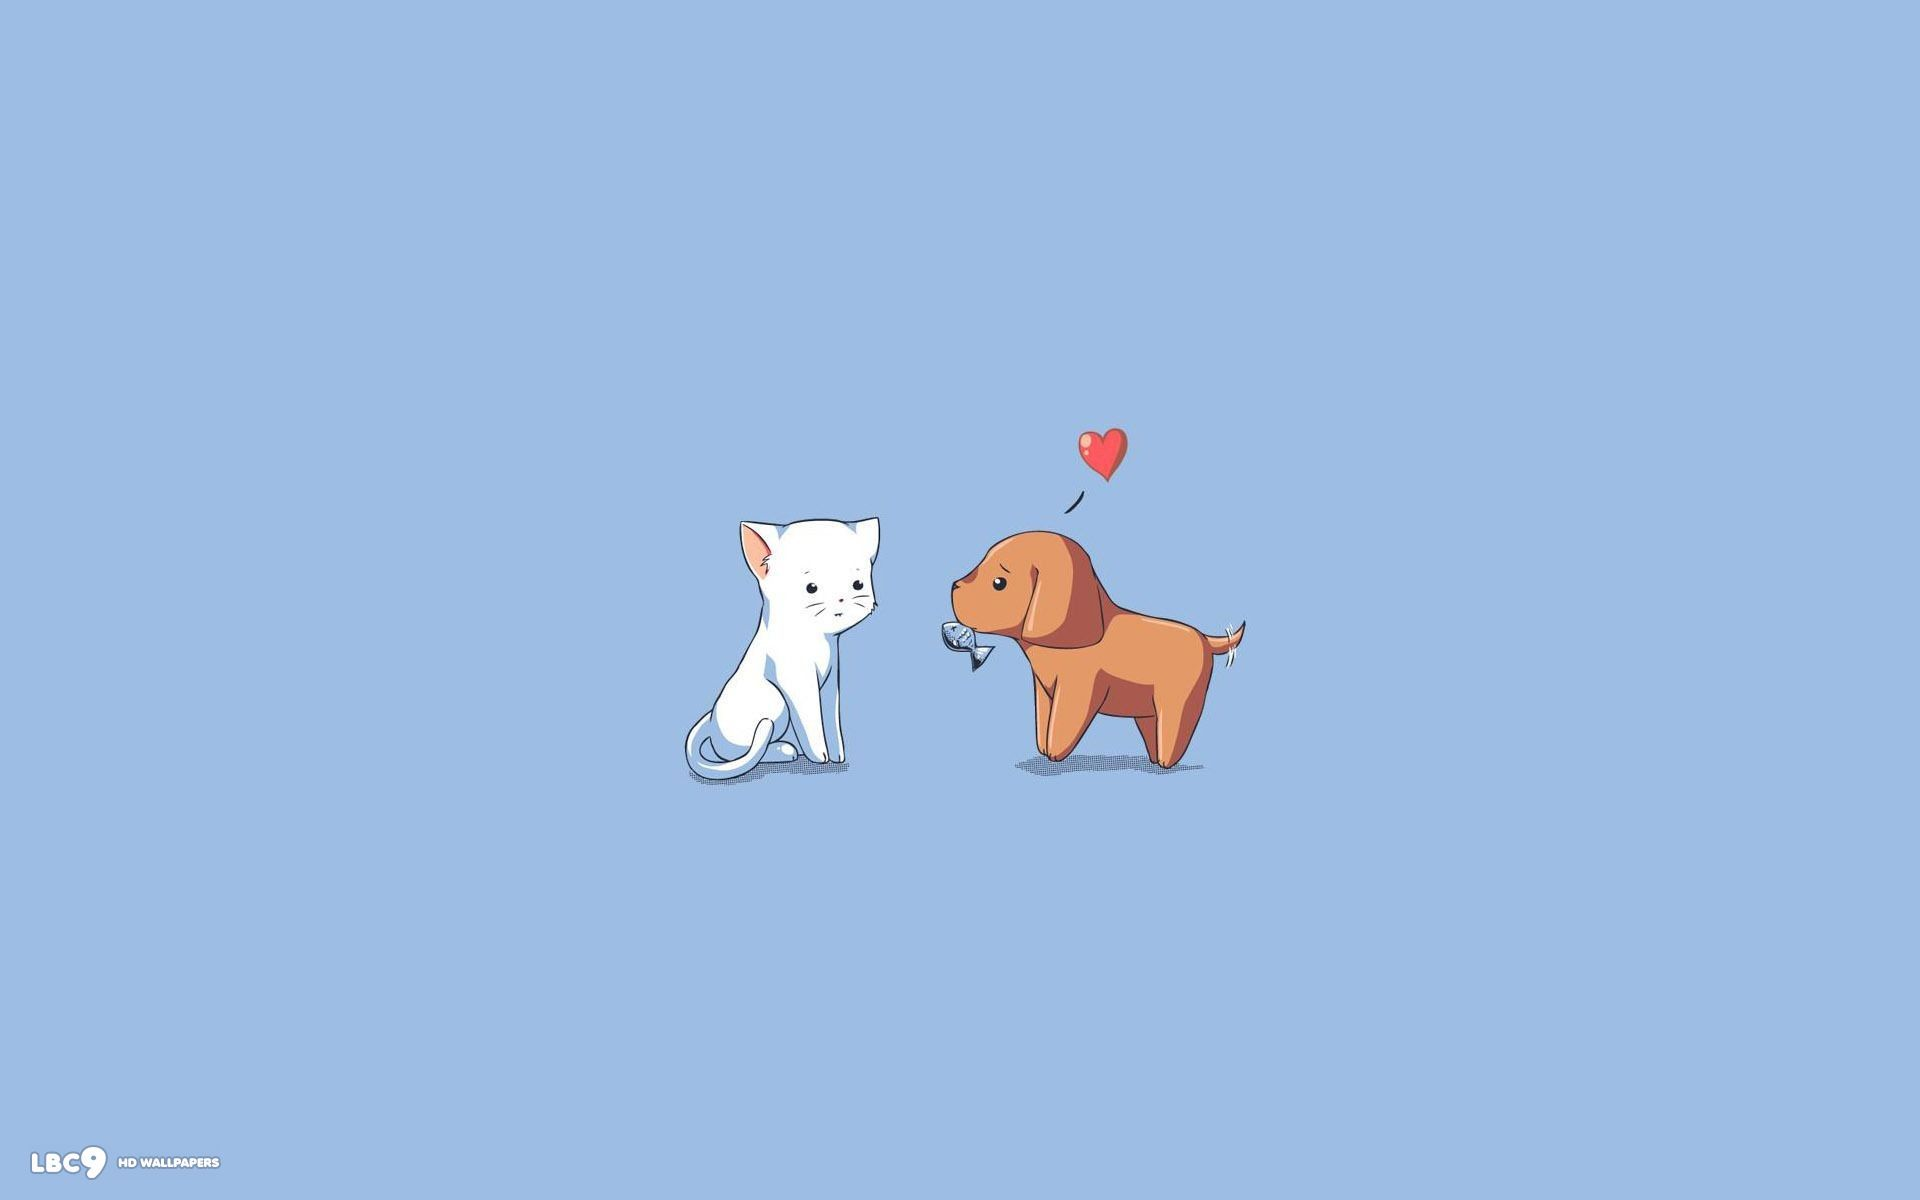
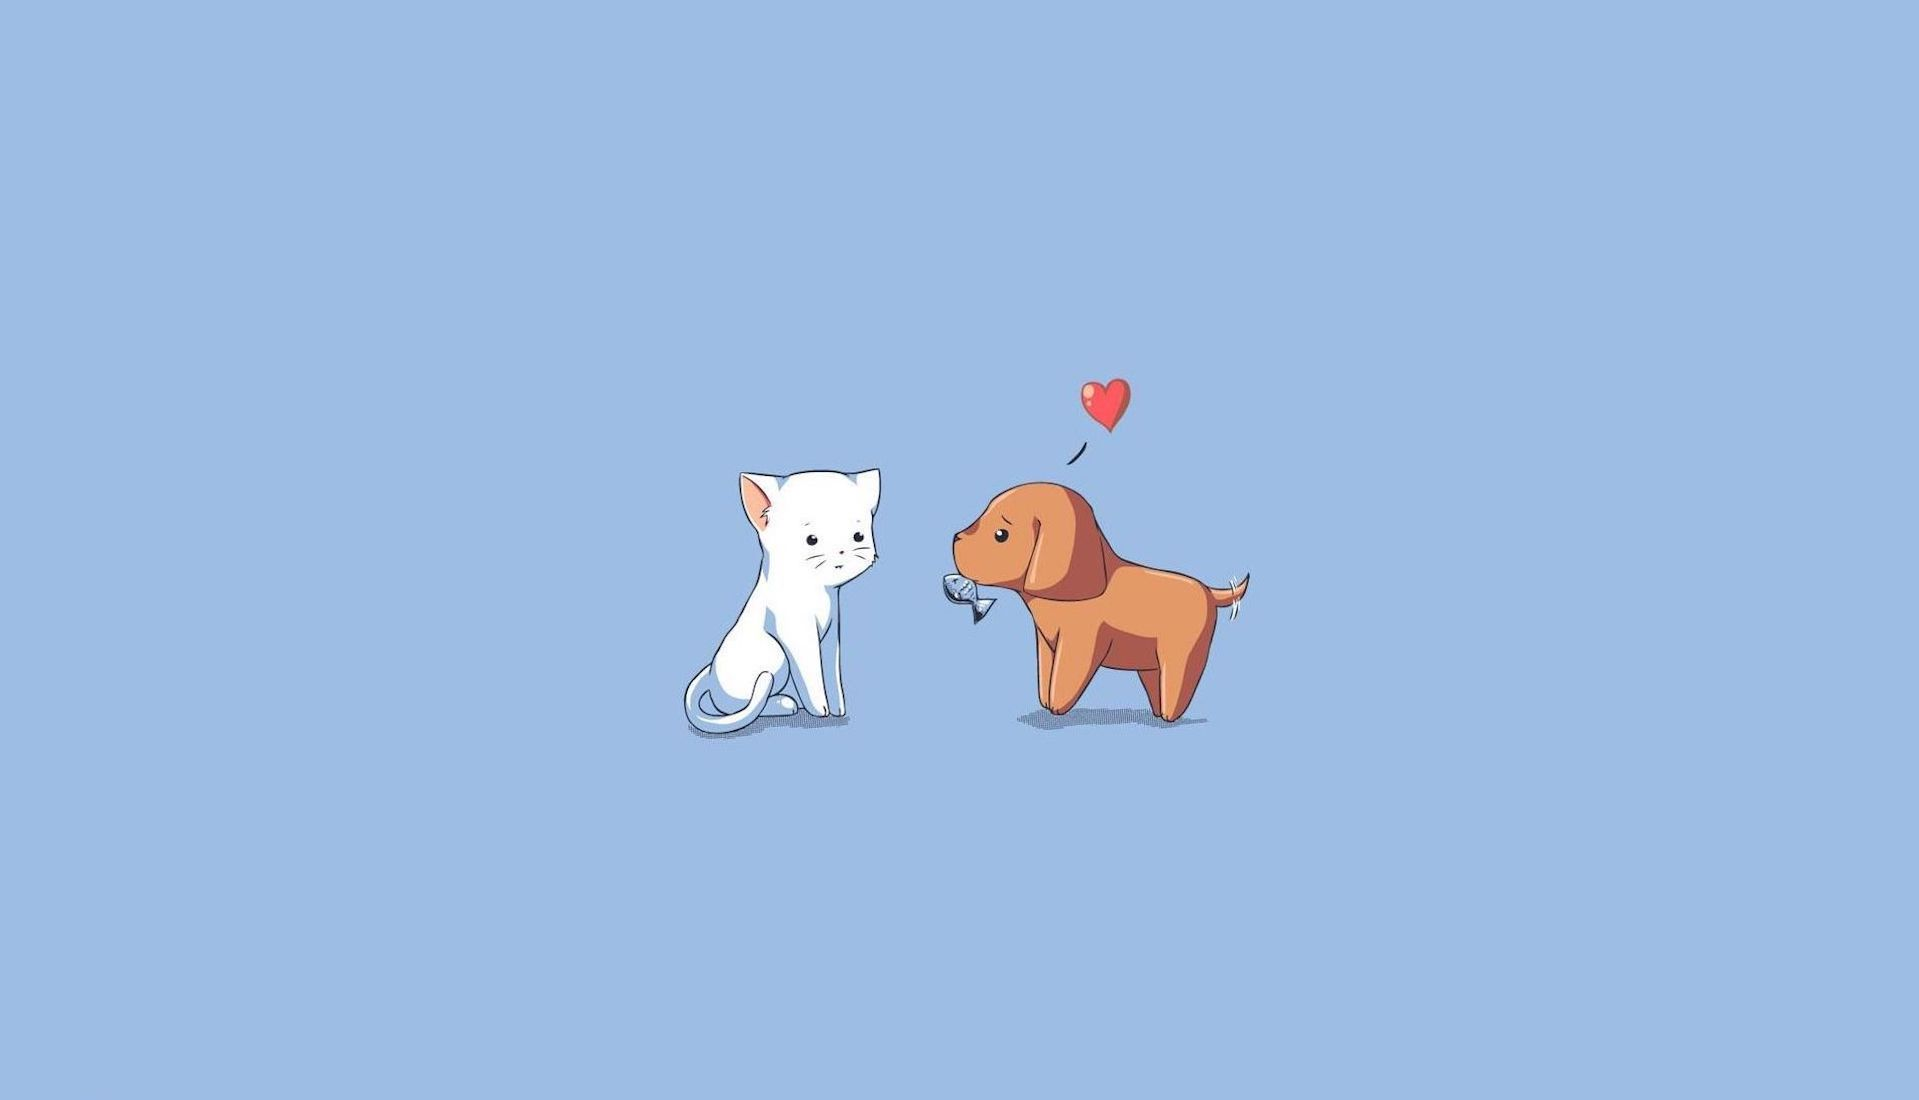
background adjustment

diff --git a/src/flaskr/templates/blog/index.html b/src/flaskr/templates/blog/index.html
@@ -6,24 +6,26 @@
 {% block content %}
 
 <div class="bg-image p-5"   style="
-background-image: url(../../static/pic/background_6.jpg);
+background-image: url(../../static/pic/background_4.jpg);
+background-repeat: no-repeat;
+background-attachment: fixed;
 height: 1200px;
+background-position: center; /* Center the image */
 ">
-  <div class="container-fluid opacity-75">
+  <div class="container-fluid" style="opacity: 0.95;">
   <!--   <div class="jumbotron text-center">
     <h1 class="fw-light">CatEatPad</h1>
     <p class="lead text-muted">Find a temporary home for your pet, or Be a foster family!</p>
           <p>
     </div> -->
 
-      <section class="p-3 mb-2 bg-light text-center container-fliud rounded">
+      <section class="mb-2 bg-light text-center container-fliud rounded">
 
       <div class="row py-lg-5">
         <div class="col-lg-6 col-md-8 mx-auto mb-2">
           <h1>CatEatPad</h1>
           <p class="lead text-muted">We help pet owners to find a temporary home for their pets!</p>
           <p class="lead text-muted">Connect with a foster family? Start with</p>
-          <p class="lead text-muted"></p>
         </div>
         {% if g.user %}
         <div class="text-center">
@@ -52,36 +54,36 @@ height: 1200px;
           <form action="" method="post" enctype="multipart/form-data" class="d-flex flex-column">
 
             <div class="form-group row">
-              <label for="type" class="col-3 col-form-label col-form-label-sm">Type</label>
+              <label for="type" class="col-3 col-form-label col-form-label-sm text-white">Type</label>
               <div class="col-9">
                 <input id="type" name="type" value="{{ request.form['type'] }}" class="form-control form-control-sm" placeholder="Type of pet.">
               </div>
             </div>
         
             <div class="form-group row">
-              <label for="city" class="col-3 col-form-label col-form-label-sm">City</label>
+              <label for="city" class="col-3 col-form-label col-form-label-sm text-white">City</label>
               <div class="col-9">
                 <input id="city" name="city" value="{{ request.form['city'] }}" class="form-control form-control-sm" placeholder="Your location.">
               </div>
             </div>
         
             <div class="form-group row">
-              <label for="startdate" class="col-3 col-form-label col-form-label-sm">Start</label>
+              <label for="startdate" class="col-3 col-form-label col-form-label-sm text-white">Start</label>
               <div class="col-9">
                 <input type="date" id="startdate" name="startdate" value="{{ request.form['startdate'] }}" class="form-control form-control-sm">
               </div>
             </div>
         
             <div class="form-group row">
-              <label for="enddate" class="col-3 col-form-label col-form-label-sm">End</label>
+              <label for="enddate" class="col-3 col-form-label col-form-label-sm text-white">End</label>
               <div class="col-9">
                 <input type="date" id="enddate" name="enddate" value="{{ request.form['enddate'] }}" class="form-control form-control-sm">
               </div>
             </div>
             <a class="link-secondary" href="/" aria-label="Search"></a>
-            <button type="submit" class="btn btn-light">        
-            <svg xmlns="http://www.w3.org/2000/svg" width="20" height="20" fill="none" stroke="currentColor" stroke-linecap="round" stroke-linejoin="round" stroke-width="2" class="mx-3" role="img" viewBox="0 0 24 24"><title>Search</title><circle cx="10.5" cy="10.5" r="7.5"/><path d="M21 21l-5.2-5.2"/></svg>
-            Search
+            <button type="submit" class="btn btn-warning">
+              <i class="fas fa-search"></i>
+              Search
             </button>
             </a>
             

diff --git a/src/flaskr/templates/auth/login.html b/src/flaskr/templates/auth/login.html
@@ -3,27 +3,17 @@
 {% block title %}Log In{% endblock %}
 
 {% block content %}
-<!-- <div 
-    class="has-bg-img"
-    src="{{url_for('static', filename='pic/background_1.jpg')}}"
-> -->
-<!-- <div
-  class="bg-image"
-  style="
-    background-image: url('https://mdbootstrap.com/img/Photos/Others/images/76.jpg');
-    height: 100vh;
-  "
-></div> -->
 <div class="bg-image p-5"   style="
-background-image: url(../../static/pic/background_1.jpg);
+background-image: url(../../static/pic/background_7.jpg);
+background-repeat: no-repeat;
+background-attachment: fixed;
 height: 1200px;
 ">
-    <div class="form-signin text-center bg-light rounded">
+    <div class="form-signin text-center bg-light rounded" style="opacity: 0.95;">
         <form method="POST" action="">
             {{ form.hidden_tag() }}
             <img src="{{url_for('static', filename='pic/CatEatPad_logo.png')}}" width="128" height="128" class="rounded-circle me-2">
             <fieldset class="form-group">
-                <legend class="border-bottom mb-4">Log In</legend>
                 <div class="form-group">
                     {{ form.username.label(class="form-control-label") }}
                     {% if form.username.errors %}

diff --git a/src/flaskr/templates/user/easy_set.html b/src/flaskr/templates/user/easy_set.html
@@ -6,10 +6,12 @@
 
 {% block content %}
 <div class="bg-image p-5"   style="
-background-image: url(../../static/pic/background_4.jpg);
+background-image: url(../../static/pic/background_8.jpg);
+background-repeat: no-repeat;
+background-attachment: fixed;
 height: 1200px;
 ">
-  <div class="card w-50 mx-auto m-3">
+  <div class="card w-50 mx-auto m-3" style="opacity: 0.95;">
     <h5 class="card-header">Change Email</h5>
     <div class="card-body">
       <form method="post" enctype="multipart/form-data" class="d-flex flex-column">
@@ -26,7 +28,7 @@ height: 1200px;
   </div>
 
 
-  <div class="card w-50 mx-auto m-3">
+  <div class="card w-50 mx-auto m-3" style="opacity: 0.95;">
     <h5 class="card-header">Change Password</h5>
     <div class="card-body">
 
@@ -60,7 +62,7 @@ height: 1200px;
   </div>
 
 
-  <div class="card w-50 mx-auto m-3">
+  <div class="card w-50 mx-auto m-3" style="opacity: 0.95;">
     <h5 class="card-header">Change Profile Image</h5>
     <div class="card-body">
       <form method="post" enctype="multipart/form-data" class="d-flex flex-column">

diff --git a/src/flaskr/templates/auth/register.html b/src/flaskr/templates/auth/register.html
@@ -1,10 +1,12 @@
 {% extends "base.html" %}
 {% block content %}
 <div class="bg-image p-5"   style="
-background-image: url(../../static/pic/background_2.jpg);
+background-image: url(../../static/pic/background_7.jpg);
+background-repeat: no-repeat;
+background-attachment: fixed;
 height: 1200px;
 ">
-    <div class="form-signin text-center bg-light rounded">
+    <div class="form-signin text-center bg-light rounded" style="opacity: 0.95;">
         <form method="POST" action="">
             {{ form.hidden_tag() }}
             <img src="{{url_for('static', filename='pic/CatEatPad_logo.png')}}" width="128" height="128" class="rounded-circle me-2">

diff --git a/src/flaskr/templates/blog/create.html b/src/flaskr/templates/blog/create.html
@@ -4,10 +4,13 @@
 
 {% block content %}
 <div class="bg-image p-5"   style="
-background-image: url(../../static/pic/background_5.jpg);
+background-image: url(../../static/pic/background_4.jpg);
+background-repeat: no-repeat;
+background-attachment: fixed;
 height: 1200px;
+background-position: center; /* Center the image */
 ">
-  <div class="bg-white rounded p-4 m-1 w-75 mx-auto">
+  <div class="bg-white rounded p-4 m-1 w-75 mx-auto" style="opacity: 0.95;">
     <h4 class="text-center pb-3">Create Post To Find A Temporary Home For Your Pet</h4>
 
     <form method="post" enctype="multipart/form-data" class="d-flex flex-column">

diff --git a/src/flaskr/templates/blog/ViewPost.html b/src/flaskr/templates/blog/ViewPost.html
@@ -4,10 +4,13 @@
 
 {% block content %}
 <div class="bg-image p-5"   style="
-background-image: url(../../static/pic/background_7.jpg);
+background-image: url(../../static/pic/background_4.jpg);
+background-repeat: no-repeat;
+background-attachment: fixed;
 height: 1200px;
+background-position: center; /* Center the image */
 ">
-  <div class="bg-light rounded p-4 m-1 w-75 mx-auto opacity-75">
+  <div class="bg-light rounded p-4 m-1 w-75 mx-auto" style="opacity: 0.95;">
     <h2>Pet Information</h2>
     <div class="bg-white shadow m-4 p-3 rounded">
       <div class="container-fluid">

diff --git a/src/flaskr/templates/user/home.html b/src/flaskr/templates/user/home.html
@@ -5,9 +5,11 @@
 {% block content %}
 <div class="bg-image p-5"   style="
 background-image: url(../../static/pic/background_8.jpg);
+background-repeat: no-repeat;
+background-attachment: fixed;
 height: 1200px;
 ">
-  <div class="bg-light m-3 pb-5 rounded text-center opacity-75">
+  <div class="bg-light m-3 pb-5 rounded text-center" style="opacity: 0.95;">
 
         <div class="container-fluid p-3">
           <div class="row w-75 mx-auto">

diff --git a/src/flaskr/templates/base.html b/src/flaskr/templates/base.html
@@ -38,17 +38,6 @@
       {% endfor %}
       {% block content %}{% endblock %}
     </section>
-    
-
-  <footer class="text-muted py-5">
-  <div class="container">
-    <p class="float-end mb-1">
-      <a href="#">Back to top</a>
-    </p>
-    <p class="mb-0">New to CatEatPad? <a href="/">Visit the homepage</a> or <a href="{{ url_for('auth.register') }}">register</a>.</p>
-  </div>
-</footer>
-
 
   </body>
 
